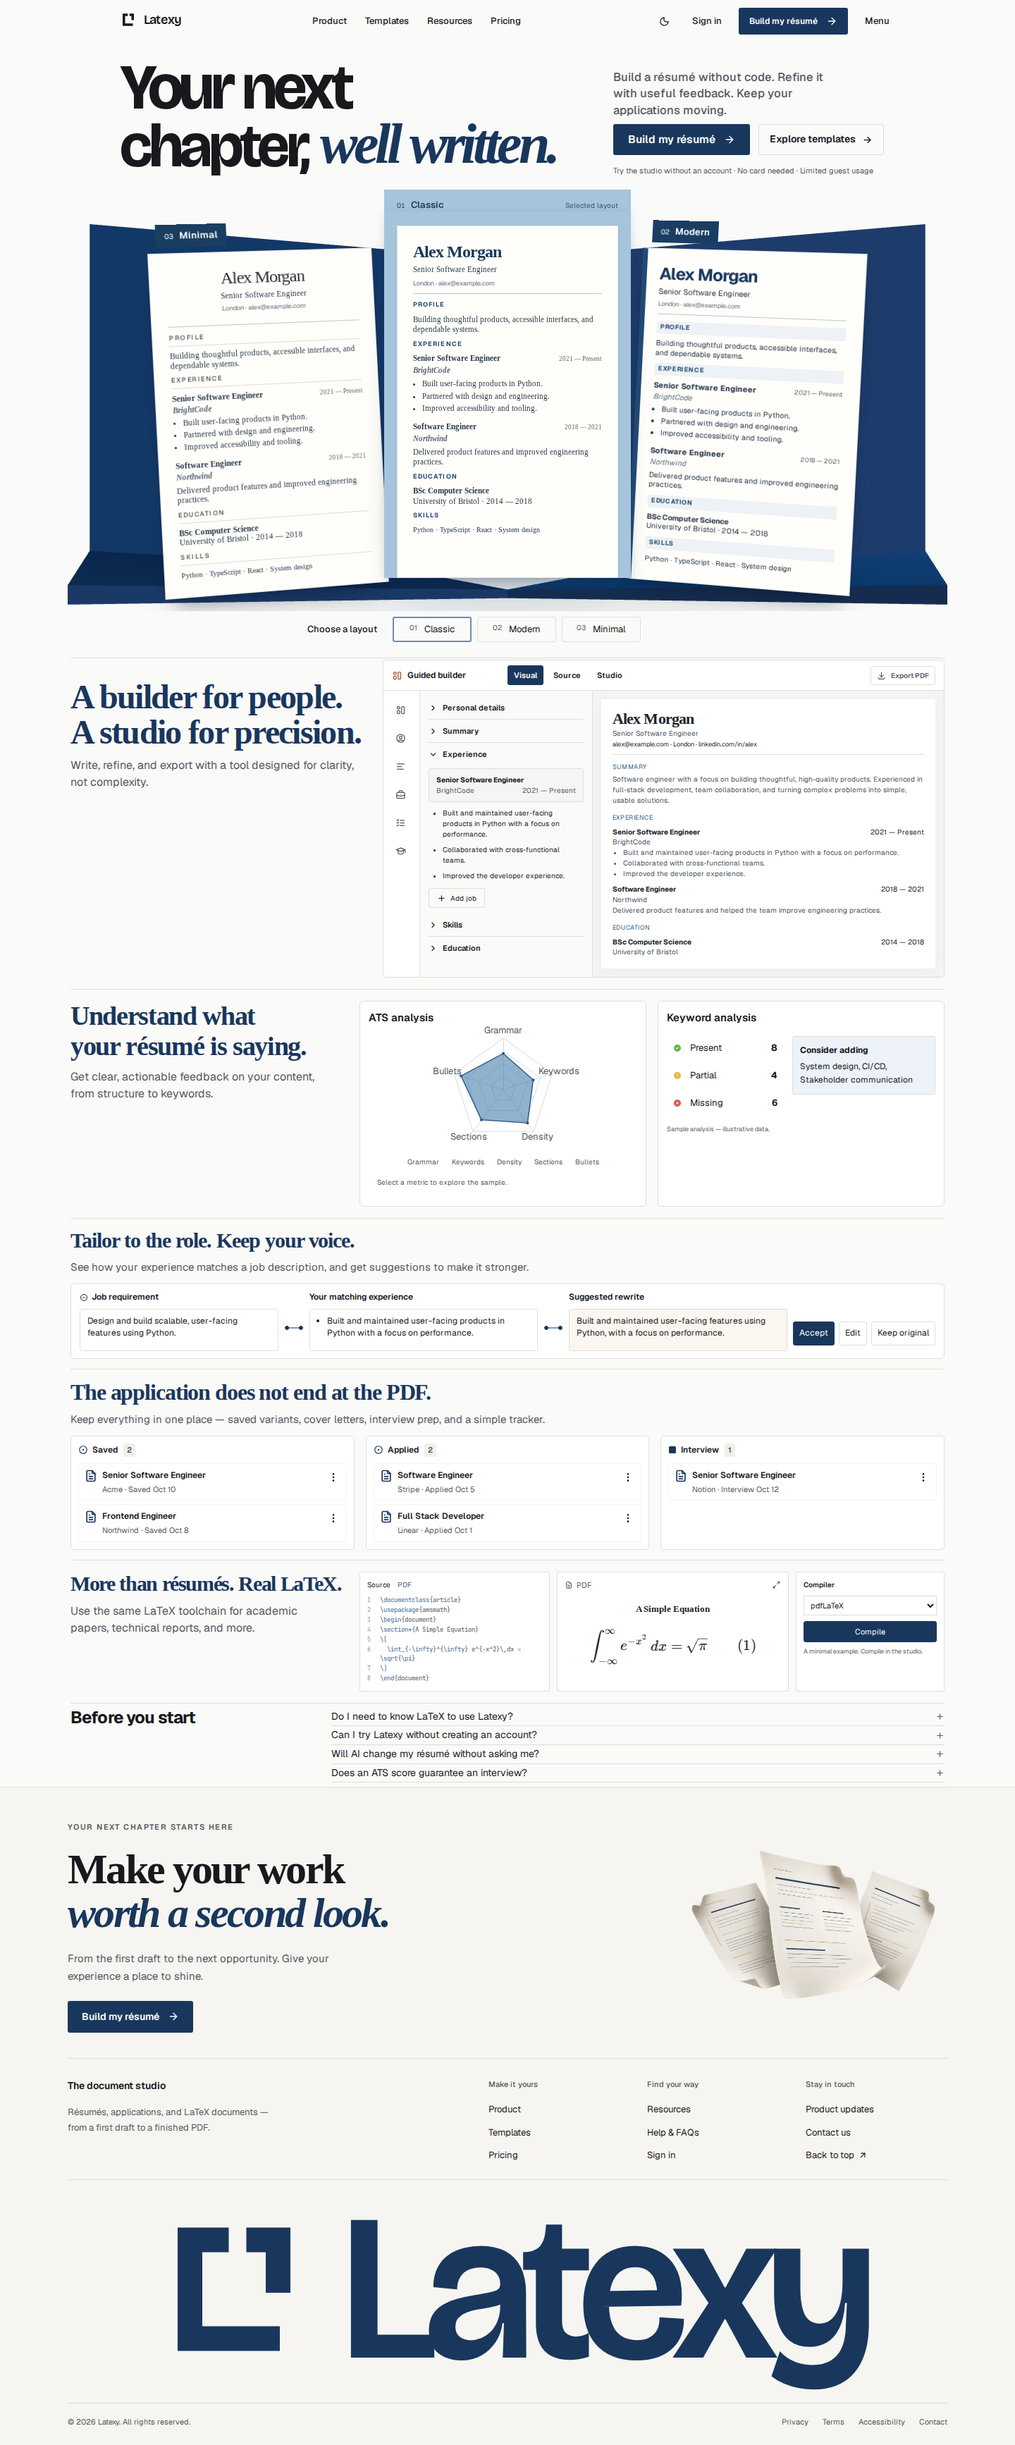
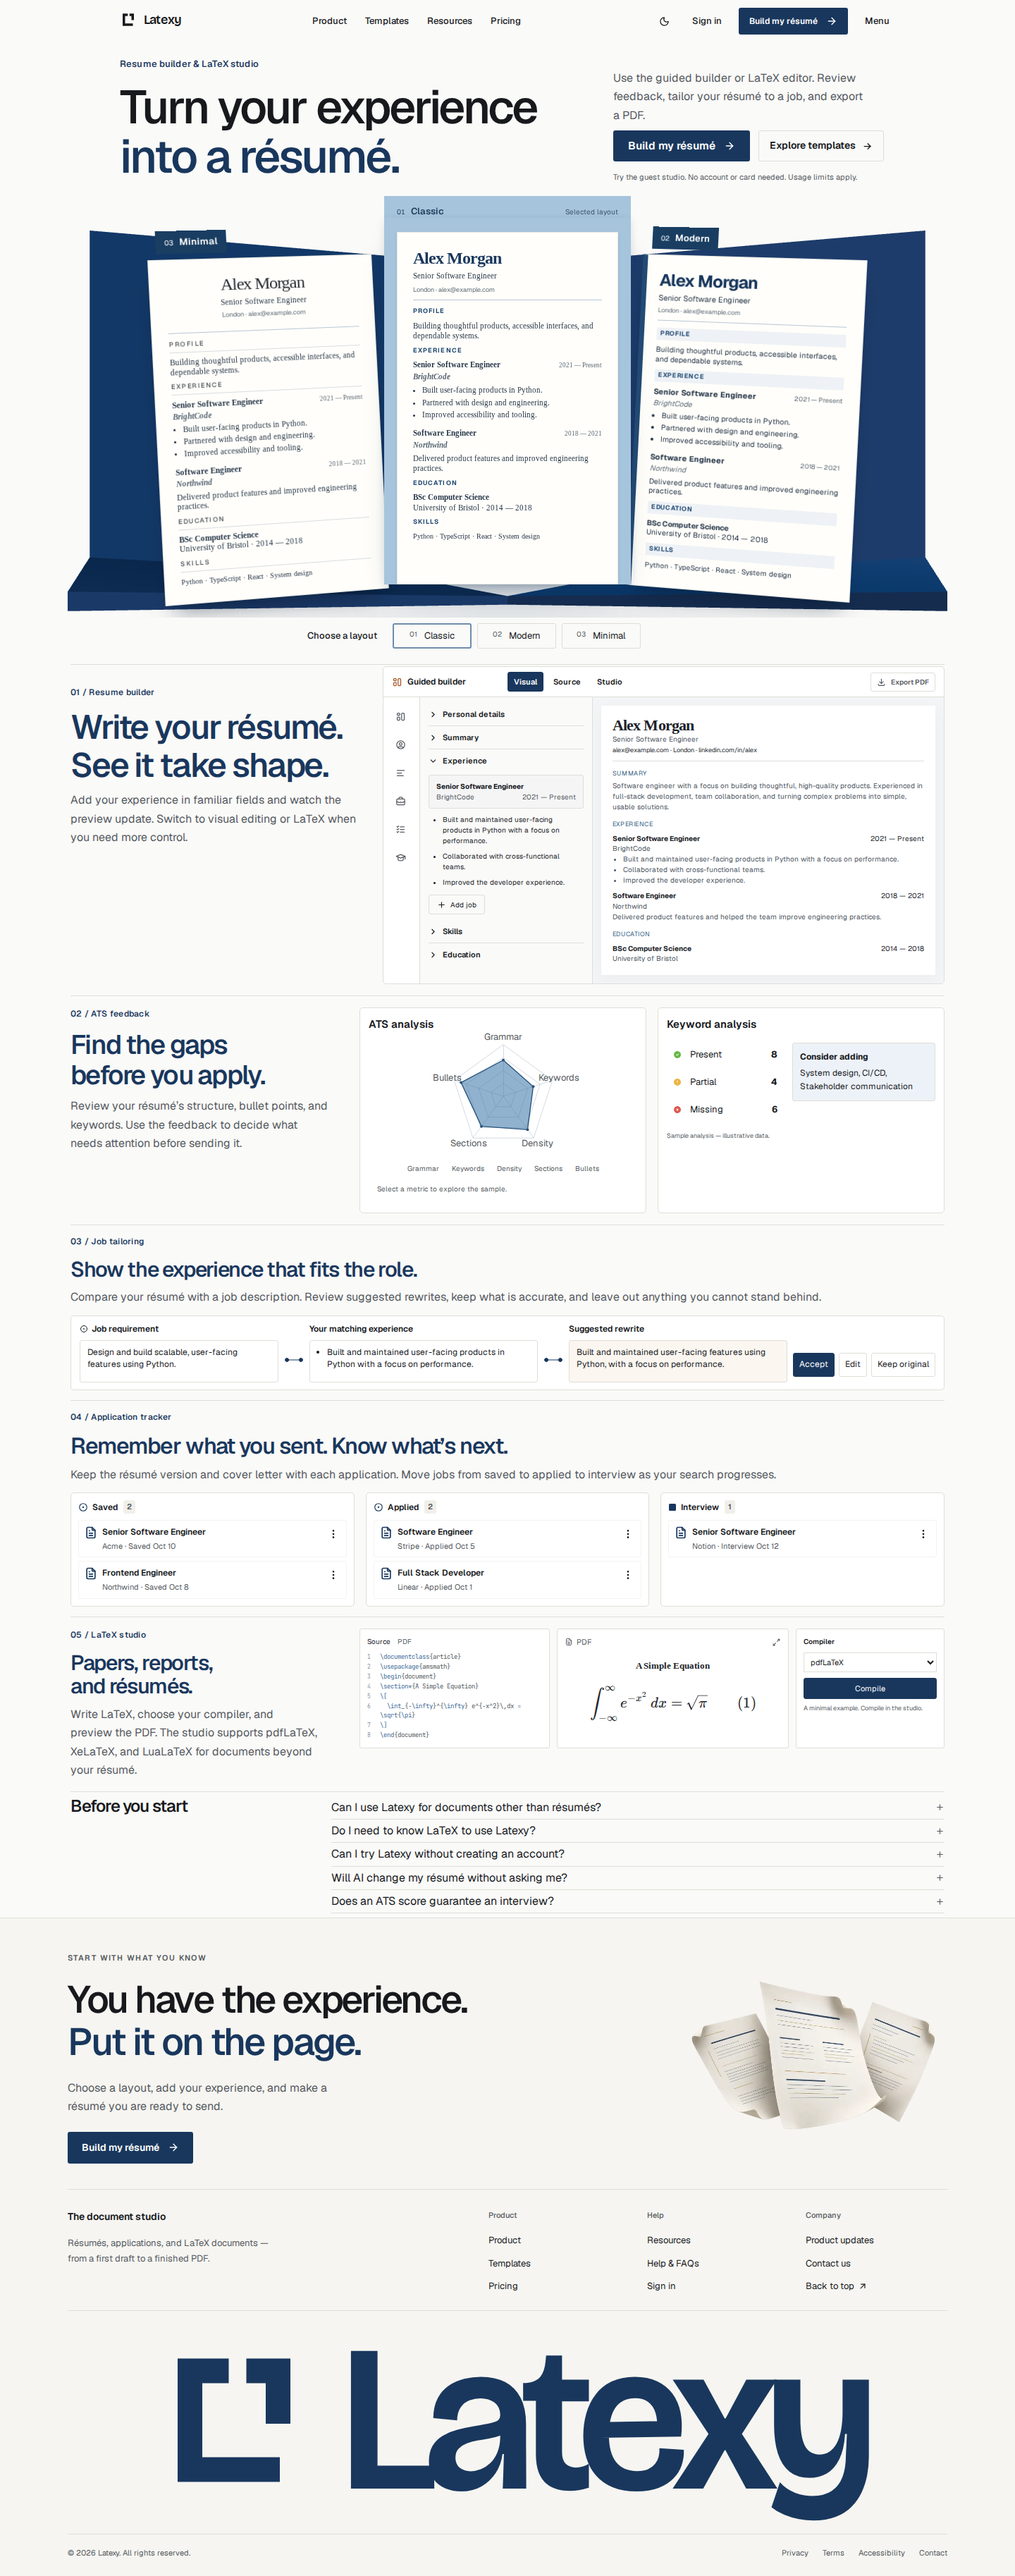
Publish current production landing screenshots and visual review

diff --git a/design-qa.md b/design-qa.md
@@ -1,45 +1,59 @@
-# Landing art direction review
+# Landing page visual QA — mobile typography and copy
 
-Scope: homepage marketing surface only. Source commit: `5bbf7fa80dd4f924c392fc0c75768f81e07a6715`; frontend tree: `de1c3ded008dd226dfb446322068e4563166e575`.
+## Target and scope
 
-## Target and state
+Baseline: the previous PR #1899 production captures from source `5bbf7fa80dd4f924c392fc0c75768f81e07a6715`, CI run 38783439606. The latest request approves the desktop composition but explicitly replaces the typography, vague copy and mobile presentation. The baseline is a composition reference, not a requirement to retain its rejected text or fonts.
 
-The previously selected Document House light/dark references are the target. The later user corrections take precedence: Classic first/default, real interactive HTML documents, a dedicated phone composition, one exposed theme control, contrast inside the menu, and the subsequently approved editorial footer.
+Source visual truth: `C:/Users/Sansk/.codex/visualizations/2026/10/15/hero-art-direction/hero-production/`.
 
-The desktop source images are 1440 CSS pixels wide at 1x. Browser comparisons use the same width, light/dark theme, anonymous fixture session, and initial sample state. Classic replaces the mockup's Modern selection by explicit user request. The references contain no phone target; phone review therefore evaluates the same art direction and the user's responsive requirements rather than claiming a nonexistent pixel match.
+Implementation: source `46e0b5c94f55643d677a04eb8b0ac55abf75fbe8`, production captures from CI run `38855173196`, extracted into `C:/Users/Sansk/.codex/visualizations/2026/10/16/mobile-copy/mobile-production/`. Public copies and image hashes are in `docs/design/landing-art-direction/provenance.json` on this evidence branch.
 
-## Evidence and iterations
+## Capture states and normalization
 
-1. Fresh live review found the shallow plinth and framed side papers had lost the approved tall folded surround. Restored six Three.js folded surfaces and unframed native papers; retained pointer response, touch/keyboard layout selection and a CSS fallback when WebGL fails.
-2. The first local render exposed clipped side papers and labels crossing the stage edge. Corrected the stage bounds and label backgrounds. The existing bounds checks were retained.
-3. Same-width source/render comparisons found overly bright gold and flat side papers under reduced motion. Changed the dark surround to restrained brass/charcoal and retained the authored static paper angles while disabling motion.
-4. The 320px capture showed role dates touching the title. Dates now occupy their own line below 380px. Recaptured both themes after the commit.
-5. Console inspection identified an existing chart hydration warning: server/browser trig results differed at the final floating point digits. Rounded the marketing SVG coordinates to three decimals and added a hydration-error assertion. Fresh capture and console review confirm the warning is gone; no tests were relaxed.
+- Desktop: 1440 × 1000 CSS pixels, DPR 1, light and dark, Classic selected. Full page and each section captured separately.
+- Phone: first-screen captures at 320, 390 and 430 × 844 CSS pixels, DPR 2.625, light and dark, default compact sample. Source and current 390px captures are both 1024 × 2216 pixels, so no density correction is needed for that pair. Focused section comparisons normalize both sides to a 390px image width; desktop pairs remain at 1x. Original capture dimensions are recorded in provenance.
+- Full phone pages and section crops use the device project's original 412 × 839 CSS viewport and DPR 2.625; they are not labeled as the separate 390px first-screen captures.
+- Reduced-motion baseline; separate checks exercise normal motion, then verify animations stop when reduced motion is enabled.
+- Public, allowed feature fixture; no account data. Browser review also covered the real unresolved-capability state and public fallback links.
 
-Full-view comparisons and focused hero, builder, ATS, tailoring, board, LaTeX, FAQ and footer renders were opened. This includes phone previews at 320/390/430 CSS pixels and tablet compositions at 768/1024/1101. Mobile screenshot pixel dimensions reflect the Pixel 7 device scale factor; compare geometry in CSS pixels rather than interpreting 1024px raster width as a desktop viewport.
+## Comparison evidence
 
-## Interaction and accessibility review
+Local iteration comparisons are in `C:/Users/Sansk/.codex/visualizations/2026/10/16/mobile-copy/review-final/`. Final production comparisons are in the adjacent `mobile-production/` directory.
 
-- One visible light/dark button. Contrast is in the desktop and mobile navigation; toggle, Escape and focus return were exercised.
-- Classic is the first/default selection. Pointer, keyboard, repeated arrow navigation, and no-WebGL sample selection were checked.
-- HTML papers remain selectable; the hero contains no image elements. Three.js renders only the surround, with capped pixel density and demand rendering.
-- Reduced motion retains the static composition; offscreen/hidden scenes stop rendering.
-- Phone CTAs remain adjacent. Phone sample expansion, builder edits/preview, ATS overview/keywords and compiler/source/PDF controls retain their existing behavior.
-- Existing overflow, document containment, minimum tap target and public-navigation fallback checks remain enabled.
+- `comparison-desktop-light.png`, `comparison-desktop-dark.png`: baseline and implementation together at identical CSS size; check the retained document composition and updated headline proportions.
+- `comparison-mobile-light.png`, `comparison-mobile-dark.png`: matched 390px first screens together, with device density normalized equally.
+- `comparison-lp-builder-section-light.png`, `comparison-lp-analysis-section-dark.png`, `comparison-lp-tailoring-section-light.png`, `comparison-lp-applications-section-dark.png`, `comparison-lp-latex-section-light.png`, `comparison-lp-faq-light.png`, `comparison-lp-footer-light.png`: readable focused comparisons, not only long downscaled page strips.
 
-## Verification
+## Iteration history
 
-Local ESLint and TypeScript checks pass. The final targeted browser run reports 9 passed, 3 device-inapplicable skips, 0 failed, 0 flaky. Linux CI run `38783439606` passes the production build, lint, cross-browser quality, real compile/preview and security checks for source commit `5bbf7fa80dd4f924c392fc0c75768f81e07a6715`. The quality report records 195 total: 185 passed, 10 device-inapplicable skips, 0 failed and 0 flaky. Vercel also deployed that revision successfully. Windows local standalone packaging is limited by unavailable symlink permissions; no packaging or test gate was changed to work around it.
+1. **P2 — vague headline and inconsistent type hierarchy.** The baseline combines a compressed display face, italic serif slogan and small explanatory text. Replace the slogan with a concrete résumé-building headline, scope Geist to homepage headings, and increase explanatory and FAQ text to 16px. Rechecked both themes and all phone widths.
+2. **P2 — mobile hero places interaction after the document.** Move the layout selector before the sample, expose adjacent native paper layouts, retain the expandable selected document, and keep the gallery compact. Existing containment, no-WebGL and touch-target checks pass.
+3. **P2 — words join when desktop line breaks are hidden on phones.** The first revised capture showed “résumé.See” and “gapsbefore”. Add explicit text spaces around those line breaks. The final focused builder/analysis/LaTeX comparisons show correct spacing and wrapping.
+4. **P2 — footer becomes only text on phones.** Restore the existing paper illustration in the mobile composition, with a constrained width and its existing reduced-motion behavior. Require a loaded, visible image in the visual contract; do not relax application behavior tests.
+5. **P3 — narrow hero description ends with a single-word line.** Shorten the description to name the guided builder and LaTeX editor directly, and enable improved paragraph wrapping. Recheck 320px in both themes; the PDF phrase remains together in the reviewed captures.
 
-## Remaining review notes
+## Required fidelity surfaces
 
-The native scene has simpler paper shadows than the photographic reference (P3). Resume text and layout details are genuine HTML and differ from the raster mockup. The previously approved footer remains intentionally larger than the original reference footer. These are disclosed differences, not a claim of pixel-identical reproduction or user aesthetic approval.
+- **Typography:** self-hosted Geist Sans is used for homepage headings and readable body copy; document templates retain their own typography. The mixed italic slogan treatment is intentionally removed. Heading wraps and labels remain legible at 320px. The approved logo is unchanged.
+- **Spacing and layout:** desktop hero/document arrangement is retained. Mobile selects a layout before the layered sample, keeps CTAs adjacent, and uses distinct feature labels and consistent section spacing. Demos retain focused phone views instead of stacking entire desktop workspaces.
+- **Colors and tokens:** existing light navy/off-white and dark charcoal/brass tokens remain. The mobile paper stage uses the existing soft surface so the documents remain the visual focus. No extra contrast switch is added to the header.
+- **Image quality:** hero content is selectable HTML, not a pasted image. Optional Three.js supplies depth; layout controls and content work without WebGL. Footer artwork is the existing high-resolution decorative asset. The generated social preview was opened and inspected for text fit.
+- **Copy and content:** headline, feature explanations, footer, social metadata and social preview are consistent. Claims describe existing capabilities. ATS feedback is guidance; suggested experience must remain accurate. Guest limits and account requirements are visible. FAQ schema is generated from the same visible answers. Research rationale and sources are in `docs/design/landing-copy-and-type.md`.
 
[1 lines of base64/hex data omitted]
+## Interaction and verification
 
-## Saved evidence
+- Classic is first/default; layout controls work with pointer and keyboard.
+- Compact/full sample toggles; selected document stays within its scene at narrow widths.
+- Builder edits persist across edit, preview and authoring modes.
+- ATS categories, tailoring edits/acceptance, board menus and compiler/PDF tabs retain their behavior.
+- One visible theme control; contrast remains inside the keyboard-accessible menu.
+- No horizontal page overflow or undersized primary controls in the existing phone checks.
+- No landing hydration errors in the screenshot contract.
+- Local TypeScript and scoped ESLint pass. Initial landing run: 9 passed, 3 device-inapplicable skips. Final screenshot/mobile run: 3 passed, 1 skip.
+- Final CI results: {"total": 200, "expected": 190, "unexpected": 0, "flaky": 0, "skipped": 10, "ok": true}.
 
-See [screenshots](docs/design/landing-art-direction/README.md) and [provenance](docs/design/landing-art-direction/provenance.json). The twelve post-commit screenshots are actual production-bundle renders from source CI; they supersede the earlier development captures. Hero crops are documented derivatives of full-page screenshots; the other images are unchanged extracted PNGs. This evidence branch has exactly the same frontend tree as the tested PR: `de1c3ded008dd226dfb446322068e4563166e575`. The QA pass assesses visual/interaction readiness for user review, not user aesthetic approval or permission to merge.
+## Findings and limits
 
-final result: passed
+No remaining actionable P0/P1/P2 findings in the reviewed states. This is a technical visual QA result for the requested direction; aesthetic approval of the new typography and copy remains with the user. It does not claim a search ranking or conversion improvement. No merge was performed.
 
+**Final result: passed**
